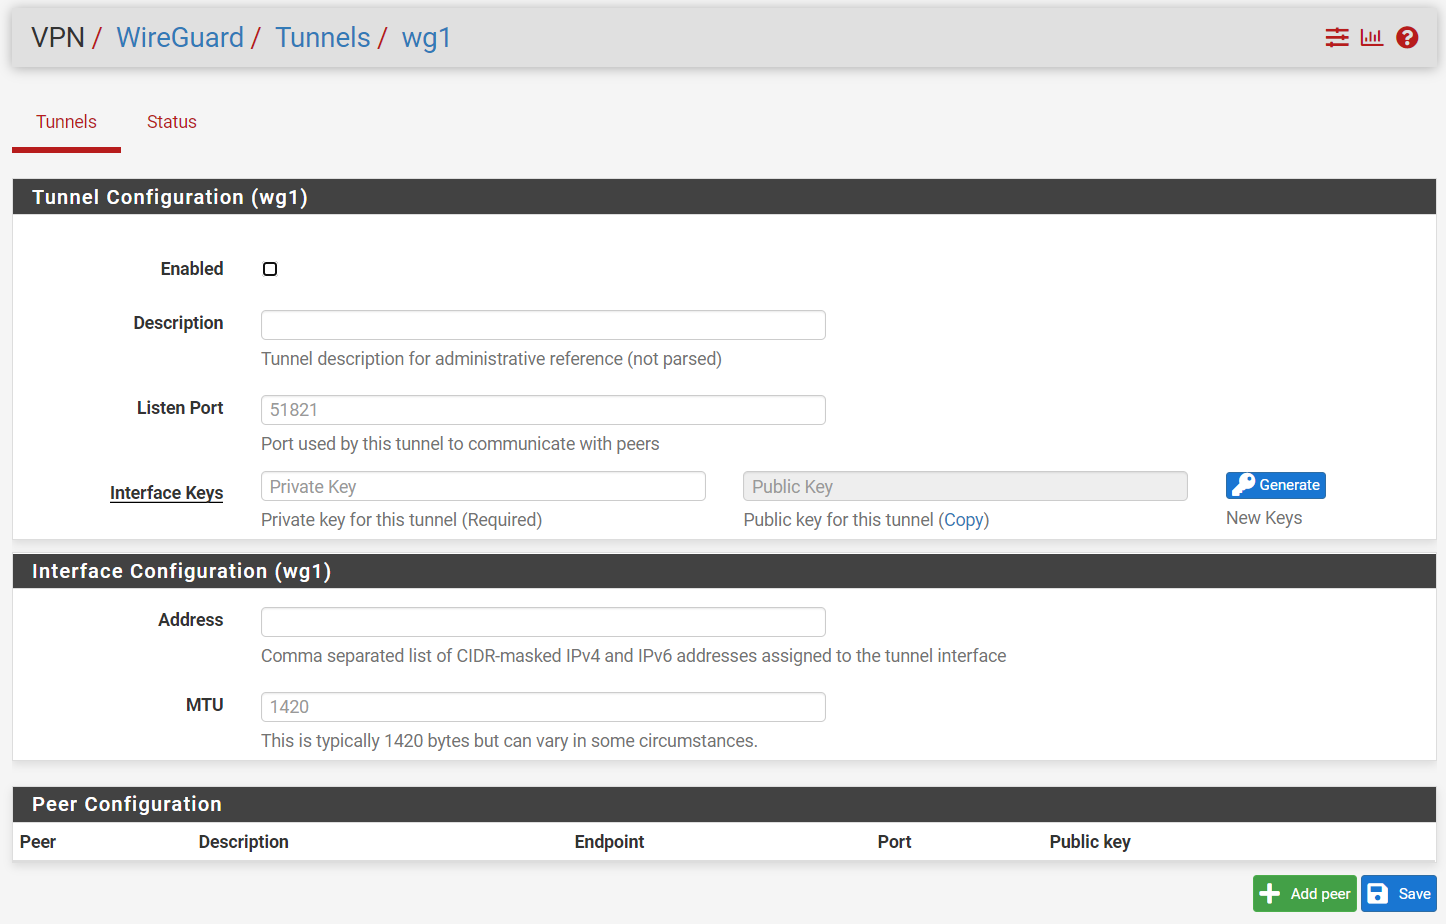
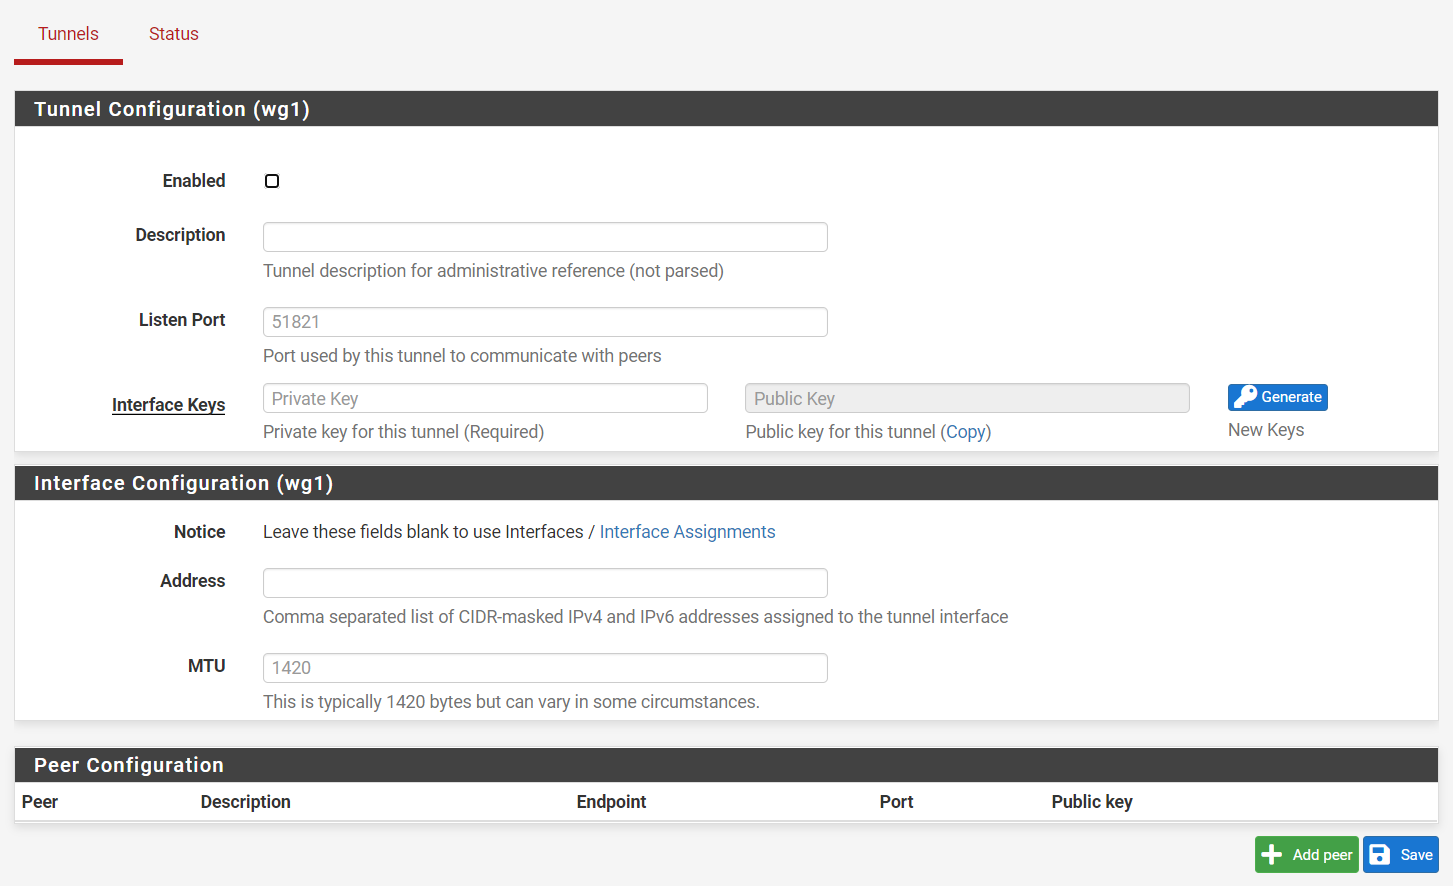
refactoring some code

diff --git a/src/files/usr/local/www/wg/vpn_wg.php b/src/files/usr/local/www/wg/vpn_wg.php
@@ -101,13 +101,7 @@ if ($input_errors) {
 				$tunnel['peers']['wgpeer'] = array();
 			}
 
-			// We want all configured interfaces, including disabled ones
-			$iflist = get_configured_interface_list_by_realif(true);
-
-			// Check if interface is assigned
-			$ifassigned = array_key_exists($tunnel['name'], $iflist);
-
-			if ($ifassigned) {
+			if (is_wg_tunnel_assigned($tunnel)) {
 
 				// We want all configured interfaces, including disabled ones
 				$ifdescr = get_configured_interface_with_descr(true);

diff --git a/src/files/usr/local/www/wg/vpn_wg_edit.php b/src/files/usr/local/www/wg/vpn_wg_edit.php
@@ -181,10 +181,7 @@ $form->add($section);
 // ============ Interface edit modal ==================================
 $section1 = new Form_Section("Interface Configuration ({$pconfig['name']})");
 
-// We want all configured interfaces, including disabled ones
-$iflist = get_configured_interface_list_by_realif(true);
-
-if (empty($iflist[$pconfig['name']])) {
+if (!is_wg_tunnel_assigned($pconfig)) {
 
 	$section1->addInput(new Form_StaticText(
 		'Notice',
